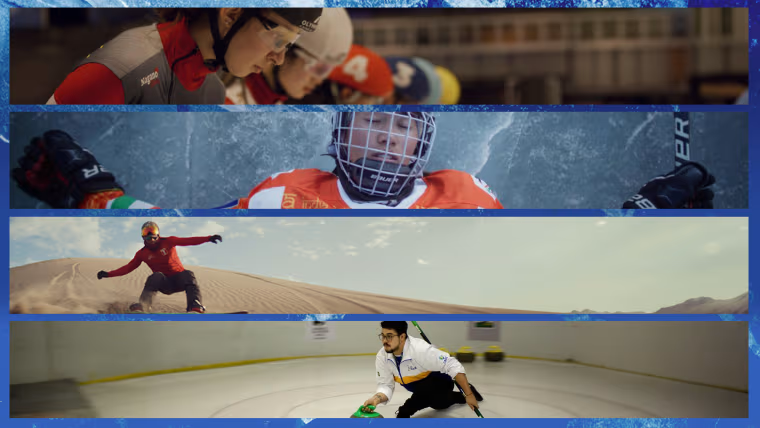
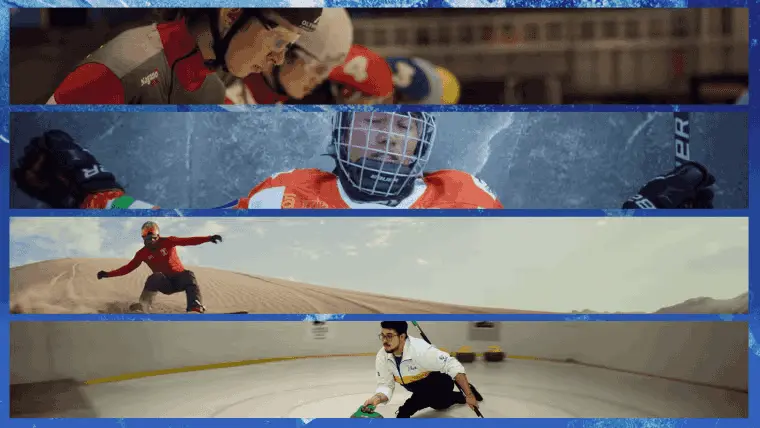
feat(home): add SportTrivia promotional card component

diff --git a/app/components/home/SportTrivia.vue b/app/components/home/SportTrivia.vue
@@ -1,0 +1,73 @@
+<script setup>
+defineProps({
+  buttonLink: {
+    type: String,
+    default: '#'
+  }
+})
+</script>
+
+<template>
+  <div class="flex flex-col lg:flex-row items-stretch bg-[#01647c] rounded-3xl overflow-hidden">
+    <!-- Image Section -->
+    <div class="lg:w-1/2 aspect-video lg:aspect-auto relative">
+      <img
+        src="/home/sport-trivia.webp"
+        alt="Sport Trivia - Skier with Olympic rings"
+        loading="lazy"
+        class="w-full h-full object-cover"
+      />
+    </div>
+
+    <!-- Content Section -->
+    <div class="lg:w-1/2 flex flex-col justify-center items-end gap-8 lg:gap-10 p-8 lg:p-12 lg:pr-14">
+      <!-- Presented by Allianz -->
+      <div class="w-full flex justify-start lg:justify-end">
+        <div class="flex items-center gap-4">
+          <span class="text-white text-sm font-[Poppins]">Presented by</span>
+          <img
+            src="/home/allianz-logo.svg"
+            alt="Allianz - The Official Insurer"
+            loading="lazy"
+            class="h-8 w-auto"
+          />
+        </div>
+      </div>
+
+      <!-- Title -->
+      <div class="w-full">
+        <h2 class="text-white font-[Poppins] text-2xl sm:text-3xl md:text-[34px] font-bold leading-tight md:leading-[42px]">
+          Test your knowledge with sports trivia!
+        </h2>
+      </div>
+
+      <!-- CTA Button -->
+      <div>
+        <a
+          :href="buttonLink"
+          class="inline-flex items-center justify-between gap-4 bg-white
+                 rounded-full pl-6 pr-2 py-2 text-[#01647c] font-medium text-lg lg:text-xl
+                 hover:opacity-90 transition-opacity duration-300 font-[Poppins]"
+        >
+          <span>Play now</span>
+          <span class="flex items-center justify-center w-8 h-8 border-2 border-[#01647c] rounded-full">
+            <svg
+              xmlns="http://www.w3.org/2000/svg"
+              class="w-5 h-5"
+              fill="none"
+              viewBox="0 0 24 24"
+              stroke="currentColor"
+              stroke-width="2"
+            >
+              <path
+                stroke-linecap="round"
+                stroke-linejoin="round"
+                d="M14 5l7 7m0 0l-7 7m7-7H3"
+              />
+            </svg>
+          </span>
+        </a>
+      </div>
+    </div>
+  </div>
+</template>

diff --git a/app/pages/index.vue b/app/pages/index.vue
@@ -9,6 +9,7 @@ import SportsGrid from "~/components/home/SportsGrid.vue";
 import LatestNews from "~/components/home/LatestNews.vue";
 import ImmerseGames from "~/components/home/ImmerseGames.vue";
 import FeatureCard from "~/components/home/FeatureCard.vue";
+import SportTrivia from "~/components/home/SportTrivia.vue";
 
 const carouselSlides = [
   {
@@ -94,6 +95,11 @@ const carouselSlides = [
     <!-- Immerse yourself in the Games -->
     <section class="py-12 px-4 max-w-7xl mx-auto">
       <ImmerseGames />
+    </section>
+
+    <!-- Sport Trivia -->
+    <section class="py-12 px-4 max-w-7xl mx-auto">
+      <SportTrivia button-link="#" />
     </section>
 
     <!-- Paralympic Winter Games -->
